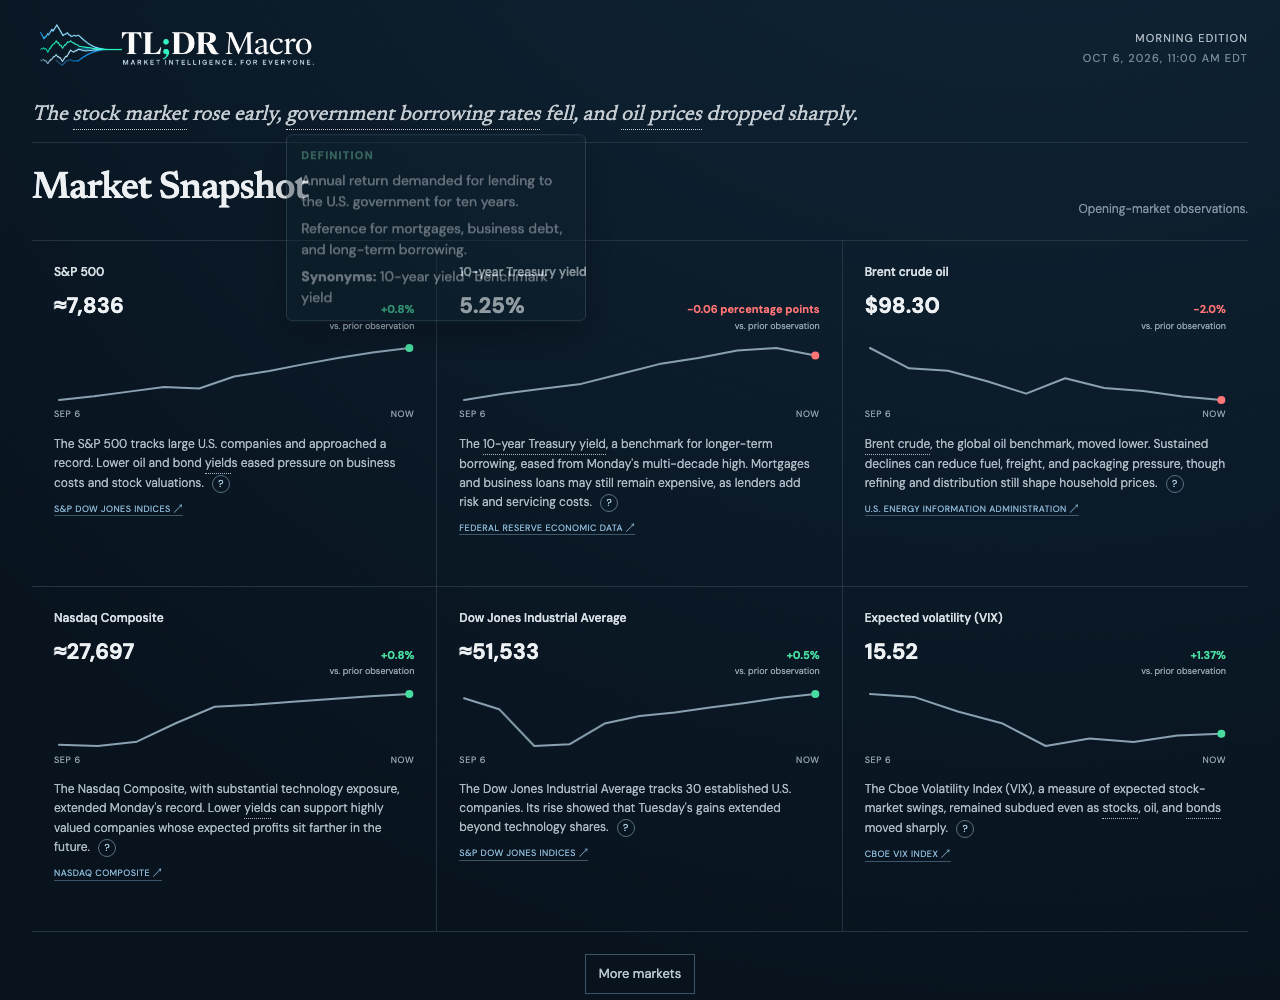
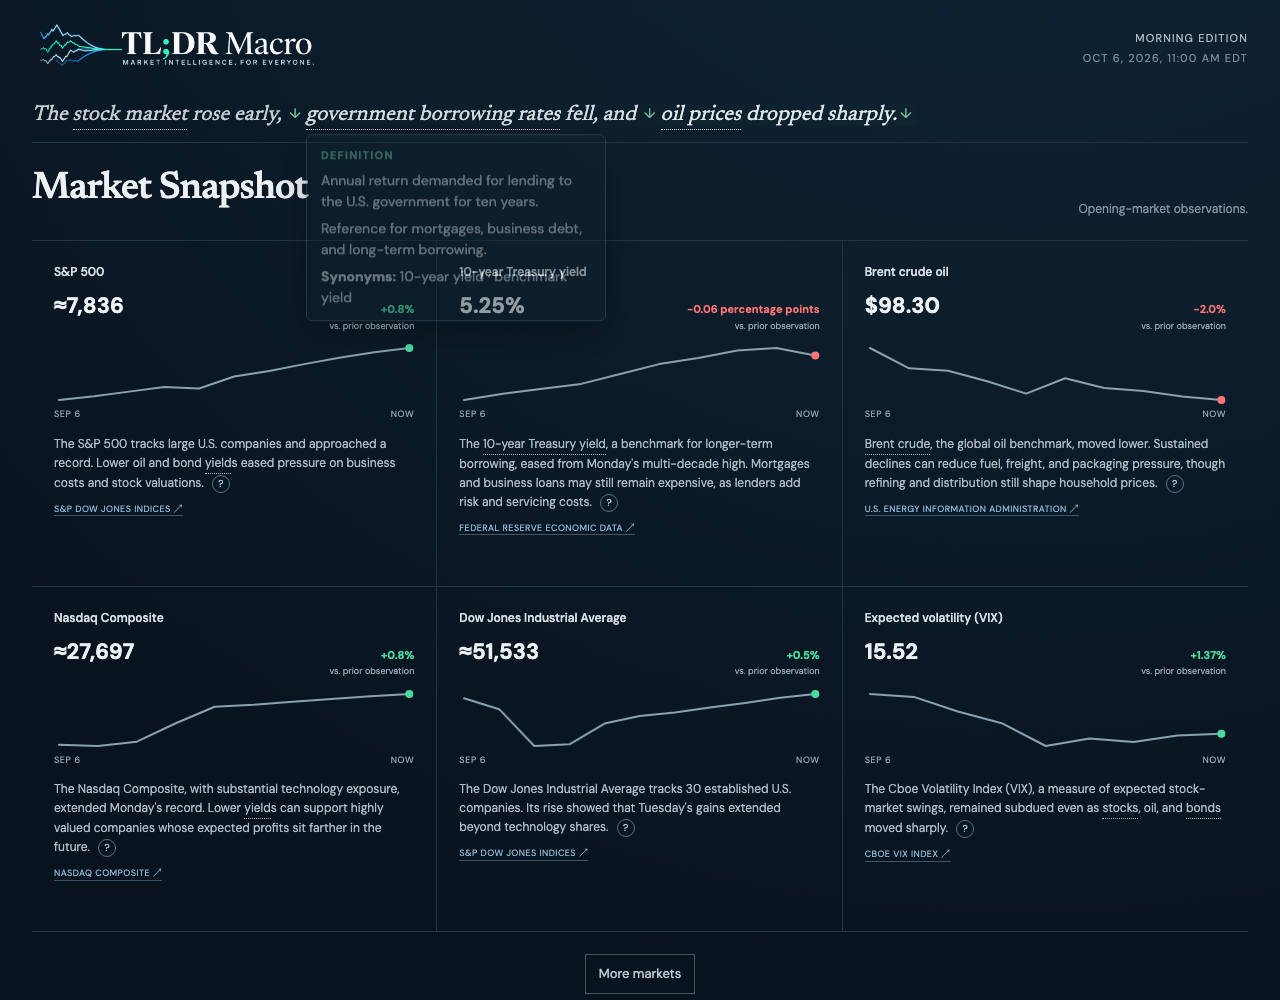
Link summary clauses and simplify About

Changed region(s): [[0.2188, 0.155, 0.4688, 0.31], [0.2188, 0.093, 0.7188, 0.124]]

diff --git a/app/HeadlineCard.tsx b/app/HeadlineCard.tsx
@@ -8,5 +8,5 @@ type View={view_id:string;body:string;keep_wondering:string};type Source={name:s
 const topicLabels:Record<string,string>={jobs_and_wages:"Jobs",interest_rates_and_yields:"Rates",oil_and_energy:"Energy",inflation_reports:"Services",dollar_and_foreign_markets:"Dollar and global",fed_meeting:"Fed",market_volatility:"Markets",budget_tariffs_taxes:"Budget and trade"};
 function TopicIcon({name}:{name:string}){const common={width:18,height:18,viewBox:"0 0 24 24",fill:"none",stroke:"currentColor",strokeWidth:1.8,strokeLinecap:"round" as const,strokeLinejoin:"round" as const,"aria-hidden":true};if(name==="briefcase")return <svg {...common}><rect x="3" y="7" width="18" height="12" rx="2"/><path d="M8 7V5h8v2M3 12h18M10 12v2h4v-2"/></svg>;if(name==="percent")return <svg {...common}><path d="m19 5-14 14"/><circle cx="7" cy="7" r="2"/><circle cx="17" cy="17" r="2"/></svg>;if(name==="fuel")return <svg {...common}><path d="M4 21V5a2 2 0 0 1 2-2h8a2 2 0 0 1 2 2v16M3 21h14M7 7h6v4H7zM16 8h2l2 2v7a2 2 0 0 1-4 0"/></svg>;if(name==="store")return <svg {...common}><path d="M4 10v10h16V10M3 10l2-6h14l2 6M8 20v-6h8v6"/><path d="M3 10a3 3 0 0 0 5 0 3 3 0 0 0 4 0 3 3 0 0 0 4 0 3 3 0 0 0 5 0"/></svg>;return <svg {...common}><circle cx="12" cy="12" r="8"/></svg>}
 function HeadlineVisual({visual}:{visual:Visual}){const data=visual.data||{};if("august_jobs" in data)return <aside className="headline-visual jobs-visual" role="img" aria-label={visual.alt}><div className="visual-title"><strong>{visual.title}</strong></div><div className="job-chart"><div className="average-line"><span>12-month average: {Number(data.average_12m_jobs).toLocaleString()} jobs</span></div><div className="job-bar"><b>{Number(data.august_jobs).toLocaleString()} jobs</b><i style={{height:"82%"}}/><span>Aug. 2026</span></div><div className="job-bar focus"><b>{Number(data.september_jobs).toLocaleString()} jobs</b><i style={{height:"18%"}}/><span>Sept. 2026</span></div></div><p>{visual.caption}</p></aside>;if("yield_percent" in data)return <aside className="headline-visual rate-tree" role="img" aria-label={visual.alt}><div className="visual-title"><strong>{visual.title}</strong></div><div className="tree-root"><span>10-year yield</span><b>{String(data.yield_percent)}%</b></div><div className="tree-branches">{(data.branches as string[]).map(item=><span key={item}>{item}</span>)}</div><p>{visual.caption}</p></aside>;if("steps" in data)return <aside className="headline-visual oil-chain" role="img" aria-label={visual.alt}><div className="visual-title"><strong>{visual.title}</strong></div><div className="supply-chain">{(data.steps as string[]).map((step,index)=><span key={step}><b>{index===0?`$${String(data.brent_dollars_per_barrel)}`:step}</b><em>{index===0?"per barrel":""}</em></span>)}</div><p>{visual.caption}</p></aside>;if("capacity_mw" in data)return <aside className="headline-visual stat-visual" role="img" aria-label={visual.alt}><div className="visual-title"><strong>{visual.title}</strong></div><div className="visual-stats"><span><b>{Number(data.capacity_mw).toLocaleString()} MW</b><em>New capacity</em></span><span><b>${String(data.investment_billion)}B+</b><em>Investment</em></span><span><b>≈{Number(data.construction_jobs).toLocaleString()}</b><em>Construction jobs</em></span></div><p>{visual.caption}</p></aside>;if("earnings_growth_percent" in data)return <aside className="headline-visual stat-visual earnings-visual" role="img" aria-label={visual.alt}><div className="visual-title"><strong>{visual.title}</strong></div><div className="visual-stats earnings-stats"><span><b>&gt;{String(data.earnings_growth_percent)}%</b><em>Expected growth</em></span><span><b>{String(data.growth_quarters)}</b><em>Straight quarters</em></span></div><div className="earnings-map"><span><b>Delta</b><em>Travel demand</em></span><i>→</i><span><b>Major banks</b><em>Credit health</em></span><i>→</i><span><b>Profit outlook</b><em>Rate resilience</em></span></div><p>{visual.caption}</p></aside>;return <aside className="headline-visual signals-visual" role="img" aria-label={visual.alt}><div className="visual-title"><strong>{visual.title}</strong></div><div className="signal-pair"><span><b>{String(data.threshold_index_points)} points</b><em>Expansion line</em></span><i>↔</i><span><b>{String(data.growth_months)} months</b><em>Expansion</em></span></div><p>{visual.caption}</p></aside>}
-export default function HeadlineCard({headline,definitions}:{headline:Headline;definitions:Record<string,Definition>}){const orderedViews=[...headline.views].sort((a,b)=>viewSettings.global_rank.indexOf(a.view_id)-viewSettings.global_rank.indexOf(b.view_id));const [open,setOpen]=useState<Set<string>>(new Set());const toggle=(id:string)=>setOpen(current=>{const next=new Set(current);if(next.has(id))next.delete(id);else next.add(id);return next});const iconName=(topicIcons as Record<string,string>)[headline.topic_tag]||topicIcons.fallback;const seen=new Set<string>();return <article className="headline-card">
+export default function HeadlineCard({headline,definitions,id}:{headline:Headline;definitions:Record<string,Definition>;id?:string}){const orderedViews=[...headline.views].sort((a,b)=>viewSettings.global_rank.indexOf(a.view_id)-viewSettings.global_rank.indexOf(b.view_id));const [open,setOpen]=useState<Set<string>>(new Set());const toggle=(id:string)=>setOpen(current=>{const next=new Set(current);if(next.has(id))next.delete(id);else next.add(id);return next});const iconName=(topicIcons as Record<string,string>)[headline.topic_tag]||topicIcons.fallback;const seen=new Set<string>();return <article className="headline-card" id={id}>
 <div className="headline-intro"><p className="story-tag"><TopicIcon name={iconName}/>{topicLabels[headline.topic_tag]||"Economy"}</p><h3>{headline.headline}</h3><p className="headline-commentary-text"><AnnotatedText text={headline.commentary} explains={headline.explains} seen={seen}/></p></div><div className="headline-visual-column"><HeadlineVisual visual={headline.visual}/></div><div className="headline-commentary"><section className="lenses" aria-label={`${headline.headline} agent views`}>{orderedViews.map(view=>{const definition=definitions[view.view_id],isOpen=open.has(view.view_id),bodyId=`${headline.topic_tag}-${view.view_id}-body`;return <div className="lens" key={view.view_id}><div className="lens-row"><button className="lens-toggle" type="button" aria-label={`${isOpen?"Collapse":"Expand"} ${definition.name}`} aria-expanded={isOpen} aria-controls={bodyId} onClick={()=>toggle(view.view_id)}/><span className="lens-icon" aria-hidden="true">{definition.icon}</span><span className="lens-title"><span className="lens-name">{definition.name}</span><TermPopover className="info-button" label="Viewpoint" ariaLabel={`What makes the ${definition.name} different`} body={<><span><strong>Different:</strong> {definition.whats_different}</span><span><strong>Asks:</strong> {definition.asks}</span><span className="agent-footer">Agent: economic decision-maker.</span></>}>i</TermPopover></span><span className="lens-chevron" aria-hidden="true">{isOpen?"⌃":"⌄"}</span></div><div className="lens-body" id={bodyId} hidden={!isOpen}><p><AnnotatedText text={view.body} explains={headline.explains} seen={seen}/></p></div></div>})}</section><div className="story-sources"><div>{headline.sources.map(source=><a href={source.href} target="_blank" rel="noreferrer" key={source.href}>{source.name} ↗</a>)}</div>{headline.data_note?<p><b>Data note:</b> {headline.data_note}</p>:null}</div></div></article>}

diff --git a/app/page.tsx b/app/page.tsx
@@ -4,7 +4,7 @@ import lensDefinitions from "../config/lens-definitions.json";
 import { Footer, Header } from "./SiteChrome";
 import HeadlineCard from "./HeadlineCard";
 import MarketSnapshot from "./MarketSnapshot";
-import AnnotatedText from "./AnnotatedText";
+import EditionSummary from "./EditionSummary";
 import {generateSummary} from "../lib/edition-summary.mjs";
 
 const notable=[
@@ -15,9 +15,9 @@ const notable=[
 ];
 
 export default function Home(){const summary=generateSummary(edition);return <main className="shell"><Header updated={edition.updated_at}/>
-  <p className="edition-summary"><AnnotatedText text={summary.sentence}/></p>
+  <EditionSummary text={summary.sentence}/>
   <MarketSnapshot markets={edition.markets}/>
-  <section className="stories" aria-labelledby="stories-title"><div className="section-heading stories-heading"><h2 id="stories-title">Top Stories</h2></div><div className="headline-list">{headlines.map(headline=><HeadlineCard headline={headline} definitions={lensDefinitions} key={headline.headline}/>)}</div></section>
+  <section className="stories" aria-labelledby="stories-title"><div className="section-heading stories-heading"><h2 id="stories-title">Top Stories</h2></div><div className="headline-list">{headlines.map(headline=>{const targetId=headline.topic_tag==="oil_and_energy"?"story-oil":headline.topic_tag==="interest_rates_and_yields"?"story-rates":headline.headline.includes("profit expectations")?"story-stocks":undefined;return <HeadlineCard headline={headline} definitions={lensDefinitions} id={targetId} key={headline.headline}/>})}</div></section>
   <section className="notable" aria-labelledby="notable-title"><div className="section-heading"><h2 id="notable-title">What Else</h2></div><div className="notable-list">{notable.map(([title,signal,text,source,href])=><article key={title}><div className="notable-title"><h3>{title}</h3><span>{signal}</span></div><p>{text}</p><a href={href} target="_blank" rel="noreferrer">{source} ↗</a></article>)}</div></section>
   <section className="watch" aria-labelledby="watch-title"><div className="section-heading"><h2 id="watch-title">Soon on TLDRM</h2><p>Historical relationship, not prediction.</p></div><div className="event-list">{edition.calendar.map(e=><article key={e.date}><time>{e.date}<small>{e.time}</small></time><div className="event-main"><h3>{e.title}</h3><p>{e.definition}</p><span>{e.prior}</span><span>{e.consensus}</span></div><div className="scenario hotter"><b>Hotter / tighter</b><p>{e.hot}</p></div><div className="scenario cooler"><b>Cooler / easier</b><p>{e.cool}</p></div><a href={e.href} target="_blank" rel="noreferrer">{e.source} ↗</a></article>)}</div></section>
   <Footer/>

diff --git a/app/TermPopover.tsx b/app/TermPopover.tsx
@@ -15,7 +15,7 @@ export default function TermPopover({children,label,title,body,className="term",
   useEffect(()=>{const other=(event:Event)=>{if((event as CustomEvent).detail!==id)close(false)};const outside=(event:PointerEvent)=>{const target=event.target as Node;if(open&&!buttonRef.current?.contains(target)&&!popoverRef.current?.contains(target))close(false)};const key=(event:KeyboardEvent)=>{if(event.key==="Escape"&&open){event.preventDefault();close(true)}};window.addEventListener("term-popover-open",other);document.addEventListener("pointerdown",outside);document.addEventListener("keydown",key);window.addEventListener("resize",place);window.addEventListener("scroll",place,true);return()=>{window.removeEventListener("term-popover-open",other);document.removeEventListener("pointerdown",outside);document.removeEventListener("keydown",key);window.removeEventListener("resize",place);window.removeEventListener("scroll",place,true)}},[id,open]);
   const popover=open&&typeof document!=="undefined"?createPortal(<span ref={popoverRef} id={id} role="tooltip" className="term-popover" style={position}><small>{label}</small>{title?<strong>{title}</strong>:null}<span>{body}</span></span>,document.body):null;
   return <span className="popover-wrap" onPointerEnter={event=>{if(event.pointerType!=="touch"){timer.current=setTimeout(show,150)}}} onPointerLeave={()=>{if(timer.current)clearTimeout(timer.current);if(!pinned)setOpen(false)}}>
-    <button ref={buttonRef} type="button" className={className} aria-label={ariaLabel} aria-expanded={open} aria-controls={id} onClick={()=>{if(open&&pinned)close(true);else{show();setPinned(true)}}}>{children}</button>
+    <button ref={buttonRef} type="button" className={className} aria-label={ariaLabel} aria-expanded={open} aria-controls={id} onClick={event=>{event.stopPropagation();if(open&&pinned)close(true);else{show();setPinned(true)}}}>{children}</button>
     {popover}
   </span>;
 }

diff --git a/app/SiteChrome.tsx b/app/SiteChrome.tsx
@@ -1,5 +1,6 @@
 import Link from "next/link";
 import Image from "next/image";
+import TermPopover from "./TermPopover";
 
 export const fullDisclaimer = "Educational context only; not investment advice. Verify as you go.";
 
@@ -14,5 +15,6 @@ export function Header({ updated }: { updated?: string }) {
 }
 
 export function Footer() {
-  return <footer><div className="footer-meta"><div><nav aria-label="Footer navigation"><a href="/about/">About</a></nav><p className="footer-note">{fullDisclaimer}</p></div><BrandImage placement="footer" /></div></footer>;
+  const about=<div className="about-popover-body"><span><strong>Mission</strong>Markets in plain English · one connected economy · low cortisol, low effort</span><span><strong>For</strong>Non-econ students · retail investors · finance recruits · busy readers</span><span><strong>Limits</strong>Intraday moves · revised data · omitted nuance · possible errors · no advice</span><span><strong>Rule</strong>Primary sources first · verify as you go</span></div>;
+  return <footer><div className="footer-meta"><div><nav aria-label="Footer navigation"><TermPopover className="about-trigger" label="About TL;DR Macro" ariaLabel="About TL;DR Macro" body={about}>About</TermPopover></nav><p className="footer-note">{fullDisclaimer}</p></div><BrandImage placement="footer" /></div></footer>;
 }

diff --git a/app/globals.css b/app/globals.css
@@ -171,6 +171,16 @@ button { font:inherit; }
 /* Compact opening and a single intentional footer divider. */
 .topbar { min-height:92px; border-bottom:0; }
 .edition-summary { padding:6px 0 12px; font-size:clamp(16px,1.65vw,22px); line-height:1.3; white-space:nowrap; }
+.summary-clause { border-radius:3px; cursor:pointer; transition:color .15s ease,background .15s ease; }
+.summary-clause:hover { color:#eef5f7; background:#10232f; }
+.summary-clause:focus-visible { outline:2px solid var(--blue); outline-offset:3px; }
+.summary-jump { margin:0 5px 0 3px; color:#70b794; font-family:var(--font-sans),sans-serif; font-size:.65em; font-style:normal; vertical-align:.12em; }
+.headline-card[id] { scroll-margin-top:18px; }
+.about-trigger { padding:0; border:0; border-bottom:1px solid #8fb9d666; background:transparent; color:#aebbc5; cursor:pointer; }
+.about-trigger:hover { color:#e0e7eb; border-color:#8fb9d6; }
+.about-popover-body { display:flex; flex-direction:column; gap:10px; }
+.about-popover-body span { color:#c6d0d6; }
+.about-popover-body strong { display:block; margin-bottom:2px; color:#75cba5; font-size:11px; text-transform:uppercase; letter-spacing:.09em; }
 .market-section { padding-top:18px; }
 .watch { border-bottom:0; }
 .event-list article:last-child { border-bottom:0; }

diff --git a/app/EditionSummary.tsx b/app/EditionSummary.tsx
@@ -1,0 +1,13 @@
+"use client";
+
+import AnnotatedText from "./AnnotatedText";
+
+const subjects=["the stock market","government borrowing rates","oil prices"];
+const targets=["story-stocks","story-rates","story-oil"];
+
+export default function EditionSummary({text}:{text:string}){
+  const lower=text.toLowerCase(),starts=subjects.map(subject=>lower.indexOf(subject));
+  if(starts.some(index=>index<0))return <p className="edition-summary"><AnnotatedText text={text}/></p>;
+  const clauses=starts.map((start,index)=>text.slice(start,index<starts.length-1?starts[index+1]:text.length));
+  return <p className="edition-summary">{clauses.map((clause,index)=><span className="summary-clause" role="link" tabIndex={0} key={targets[index]} aria-label={`Read more about ${subjects[index]}`} onClick={()=>document.getElementById(targets[index])?.scrollIntoView({behavior:"smooth",block:"start"})} onKeyDown={event=>{if(event.key==="Enter"||event.key===" "){event.preventDefault();document.getElementById(targets[index])?.scrollIntoView({behavior:"smooth",block:"start"})}}}><AnnotatedText text={clause}/><span className="summary-jump" aria-hidden="true">↓</span></span>)}</p>;
+}
